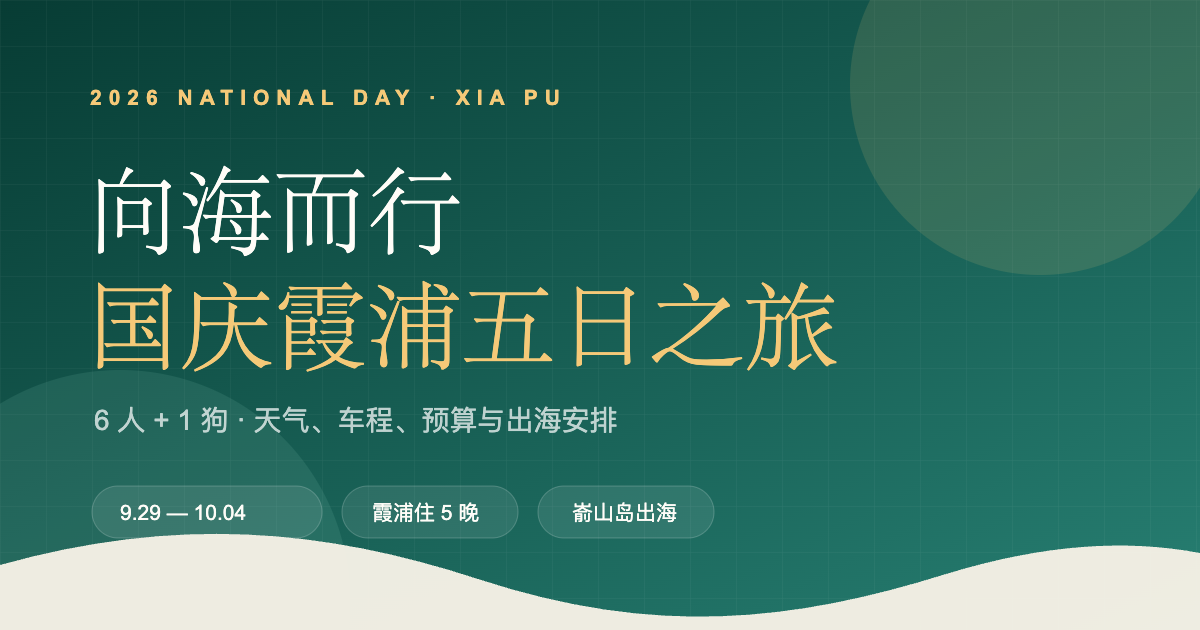
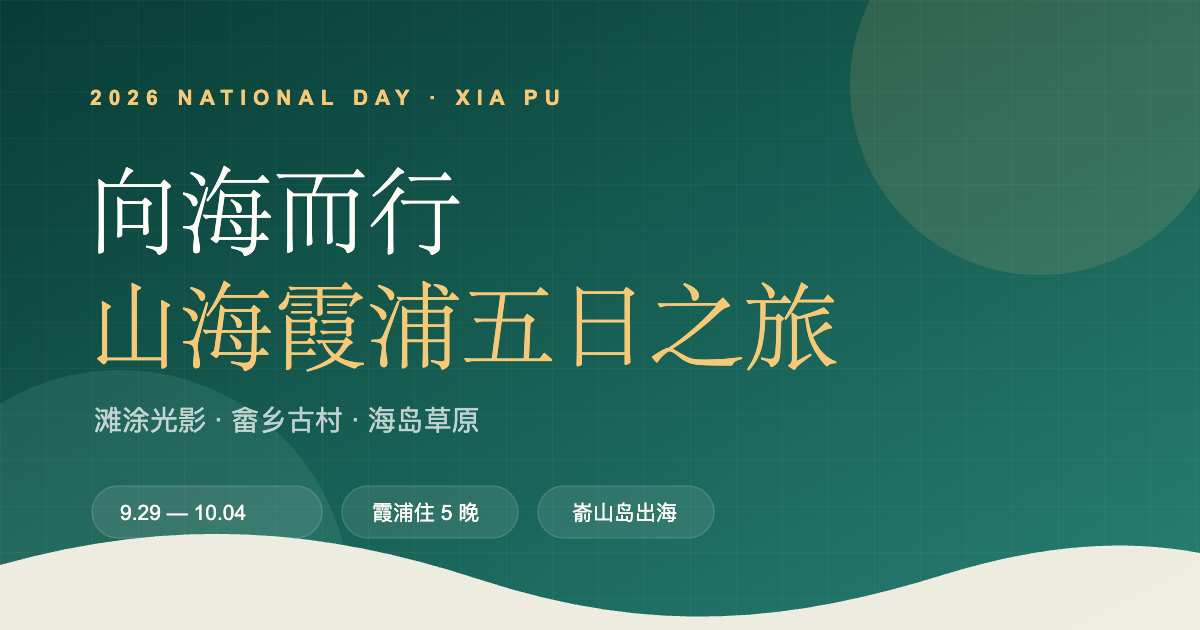
Polish itinerary as traveler-facing guide

Changed region(s): [[0.0617, 0.6333, 0.5242, 0.6937], [0.0617, 0.4524, 0.2467, 0.6032]]

diff --git a/index.html b/index.html
@@ -6,10 +6,10 @@
     <meta name="theme-color" content="#0d5548" />
     <meta name="apple-mobile-web-app-capable" content="yes" />
     <meta name="format-detection" content="telephone=no" />
-    <title>国庆霞浦之旅｜5 日游玩 + 10 月 4 日返程</title>
+    <title>山海霞浦｜2026 国庆五日之旅</title>
     <meta name="description" content="2026 国庆霞浦 5 日攻略：每日天气、逐段车程、费用、特色菜、嵛山岛船班与带狗说明。" />
     <meta property="og:type" content="website" />
-    <meta property="og:title" content="国庆霞浦之旅｜6 人 + 1 狗" />
+    <meta property="og:title" content="山海霞浦｜2026 国庆五日之旅" />
     <meta property="og:description" content="9.29—10.03 游玩，10.04 一早返程。含天气、车程、预算、餐厅特色菜和真实小红书攻略图。" />
     <meta property="og:image" content="https://youzxxrica-tech.github.io/xiapu-2026/og-cover.png" />
     <meta property="og:url" content="https://youzxxrica-tech.github.io/xiapu-2026/" />
@@ -23,7 +23,7 @@
       <div class="hero__inner">
         <p class="eyebrow">2026 NATIONAL DAY · XIA PU</p>
         <h1>国庆霞浦<br /><span>五日之旅</span></h1>
-        <p class="hero__lead">9 月 29 日入住，10 月 4 日一早退房返程。不是“六日大本营”，是霞浦住 5 晚。</p>
+        <p class="hero__lead">潮起潮落之间，滩涂、渔排与海岛，把东海写成一幅会呼吸的画。</p>
         <div class="hero__facts" aria-label="行程概况"><span>9.29—10.03 游玩</span><span>10.04 返程</span><span>6 人 + 1 狗</span><span>B 组 10.01 高铁到</span></div>
         <a class="hero__cta" href="#overview">看完整安排 <span aria-hidden="true">↓</span></a>
       </div>
@@ -32,39 +32,39 @@
 
     <main>
       <section class="quick" id="overview" aria-labelledby="quick-title">
-        <div class="section-heading"><p class="section-kicker">先说清楚</p><h2 id="quick-title">这版行程的四个硬口径</h2></div>
+        <div class="section-heading"><p class="section-kicker">JOURNEY HIGHLIGHTS</p><h2 id="quick-title">循着山海，读懂霞浦</h2></div>
         <div class="quick__grid quick__grid--four">
-          <article class="quick-card"><span class="quick-card__icon">🌦</span><h3>天气决定顺序</h3><p>当前是 9 月 22 日中期预报；海岛日若遇大风停航，D4 与 D5 直接互换。</p></article>
-          <article class="quick-card"><span class="quick-card__icon">🚄</span><h3>B 组 10 月 1 日到</h3><p>D3 专门留作接站与轻行程。车次没给，页面不编造到站时间。</p></article>
-          <article class="quick-card"><span class="quick-card__icon">🐕</span><h3>狗有上岛实测</h3><p>多篇小红书有带狗上船和乘景交车记录；带航空箱、嘴套、牵引绳，最终听现场安排。</p></article>
-          <article class="quick-card"><span class="quick-card__icon">🤿</span><h3>不安排浮潜</h3><p>未查到嵛山岛稳定、持证、含救援的一日游浮潜产品，外海礁石与风浪不适合自行下水。</p></article>
+          <article class="quick-card"><span class="quick-card__icon">🌅</span><h3>潮汐塑造的风景</h3><p>北岐与小皓的潮间带随海水舒展，紫菜竹竿、渔船和晨光共同构成霞浦最动人的线条。</p></article>
+          <article class="quick-card"><span class="quick-card__icon">🐟</span><h3>渔家餐桌</h3><p>从红膏蟹糯米饭、炒藤壶到海鲜面，一日三餐都连着霞浦人以海为田的生活。</p></article>
+          <article class="quick-card"><span class="quick-card__icon">🎶</span><h3>畲乡古韵</h3><p>半月里的龙溪宫、雷氏宗祠与传统民居，保留着闽东畲族村落的空间与生活记忆。</p></article>
+          <article class="quick-card"><span class="quick-card__icon">🌿</span><h3>海上草原</h3><p>乘船越过三沙海面，登上嵛山岛，在天湖、草坡与远海之间感受山海相连的开阔。</p></article>
         </div>
-        <div class="forecast-note"><strong>天气快照 · 更新于 2026-09-22</strong><span>中期预报会变，出发前 48 小时必须复核；海岛还要单独看风力、浪高和班船通知。</span></div>
+        <div class="forecast-note"><strong>天气参考 · 2026-09-22 更新</strong><span>逐日温度与天气已写入行程；出发前 48 小时复核预报，海岛日同时确认风力、浪高与班船动态。</span></div>
       </section>
 
       <section class="route-map-section" aria-labelledby="route-map-title-heading">
-        <div class="section-heading"><p class="section-kicker">THE ROUTE</p><h2 id="route-map-title-heading">霞浦 5 日 + 返程路线</h2></div>
+        <div class="section-heading"><p class="section-kicker">THE ROUTE</p><h2 id="route-map-title-heading">五日山海路线</h2></div>
         <div class="route-map-card">
           <div class="route-map-tabs" role="group" aria-label="选择要查看的路线"><button class="route-map-tab is-active" type="button" data-route="xiapu" aria-pressed="true">霞浦 5 日</button><button class="route-map-tab" type="button" data-route="1" aria-pressed="false">D1</button><button class="route-map-tab" type="button" data-route="2" aria-pressed="false">D2</button><button class="route-map-tab" type="button" data-route="3" aria-pressed="false">D3</button><button class="route-map-tab" type="button" data-route="4" aria-pressed="false">D4</button><button class="route-map-tab" type="button" data-route="5" aria-pressed="false">D5</button><button class="route-map-tab" type="button" data-route="home" aria-pressed="false">返程</button></div>
           <div id="route-map" role="img" aria-label="霞浦五日自驾和嵛山岛路线图"></div>
-          <div class="route-map-meta"><div><strong id="route-map-label">霞浦段 · D1—D5</strong><p id="route-map-copy">县城住 5 晚，北线、接站、嵛山岛、南线各自成线。</p></div><a id="route-map-link" href="#day-1">从 D1 开始看</a></div>
-          <p class="route-map-note">地图连线用于说明顺序，不替代实时导航；海上段为班船示意。重复经过的地点会显示“1/3/7”这类合并编号，不再漏掉第 3 站。</p>
+          <div class="route-map-meta"><div><strong id="route-map-label">霞浦段 · D1—D5</strong><p id="route-map-copy">以县城为驻点，串联北线滩涂、杨家溪、嵛山岛与南线畲乡。</p></div><a id="route-map-link" href="#day-1">从 D1 开始看</a></div>
+          <p class="route-map-note">图示为游览顺序，实际行车以当日导航和交通管制为准；三沙码头至嵛山岛为客船航线。</p>
         </div>
       </section>
 
       <nav class="day-nav" aria-label="按天跳转"><div class="day-nav__scroll"><a href="#day-1">D1</a><a href="#day-2">D2</a><a href="#day-3">D3</a><a href="#day-4">D4</a><a href="#day-5">D5</a><a href="#return-day">10/4 返程</a></div></nav>
 
       <section class="itinerary" aria-labelledby="itinerary-title">
-        <div class="section-heading section-heading--light"><p class="section-kicker">THE ITINERARY</p><h2 id="itinerary-title">天气、车程、钱和吃什么，都写明白</h2></div>
+        <div class="section-heading section-heading--light"><p class="section-kicker">THE ITINERARY</p><h2 id="itinerary-title">五日山海纪行</h2></div>
 
         <article class="day" id="day-1">
-          <div class="day__head"><div class="day__number"><small>DAY</small>01</div><div><p>09.29 · 周二 · A 组 4 人 + 狗</p><h3>杭州出发 · 抵达霞浦</h3></div></div>
+          <div class="day__head"><div class="day__number"><small>DAY</small>01</div><div><p>09.29 · 周二 · A 组 4 人 + 狗</p><h3>抵达霞浦 · 初见滩涂</h3></div></div>
           <div class="day-summary"><span class="weather">☀→☁ 25–31°C</span><span class="budget">预计 ¥790–1,070 / A 组</span><span>住第 1/5 晚</span></div>
-          <p class="summary-note">车辆燃油 + 路桥约 ¥550–750/车，晚餐 ¥60–80/人；不含酒店。国庆拥堵另留 1–2 小时。</p>
+          <p class="summary-note">当日费用参考：车辆燃油与路桥约 ¥550–750/车，晚餐 ¥60–80/人；酒店费用另计。国庆路况建议预留 1–2 小时机动时间。</p>
           <ol class="timeline">
             <li><time>07:00</time><div><strong>杭州出发</strong><span class="leg">约 478 km · 正常 6–7 小时</span><p>A 组 4 人 + 狗自驾。每 2 小时停一次服务区补水、放风。</p></div></li>
-            <li><time>14:30</time><div><strong>栖谷云著酒店入住</strong><span class="leg">到北岐约 7 km · 15–20 分钟</span><p>连续住 5 晚，10 月 4 日一早退房。若 16:30 前安顿好且不堵，再去北岐；否则直接休息。</p></div></li>
-            <li><time>17:00</time><div><strong>北岐滩涂 · 可选日落</strong><span class="leg">游玩 45–60 分钟 · 门票 ¥0</span><p>晴间多云时可看晚霞；抵达晚就取消，D2 还会来，不为打卡赶路。</p><div class="place-gallery" aria-label="北岐滩涂小红书实拍"><button class="photo-thumb" type="button" data-photo="./assets/photos/beiqi-xhs-1.jpg" data-caption="北岐日出与观景人 · 小红书作者 nihao" data-source="https://www.xiaohongshu.com/explore/6aae08b7000000002a02c483"><img src="./assets/photos/beiqi-xhs-1.jpg" alt="北岐滩涂日出小红书实拍" loading="lazy" /></button><button class="photo-thumb" type="button" data-photo="./assets/photos/beiqi-xhs-2.jpg" data-caption="北岐滩涂晨光 · 小红书作者 nihao" data-source="https://www.xiaohongshu.com/explore/6aae08b7000000002a02c483"><img src="./assets/photos/beiqi-xhs-2.jpg" alt="北岐滩涂晨光小红书实拍" loading="lazy" /></button></div></div></li>
+            <li><time>14:30</time><div><strong>栖谷云著酒店入住</strong><span class="leg">到北岐约 7 km · 15–20 分钟</span><p>办理入住并稍作休整。若 16:30 前完成安顿，可前往北岐迎接霞浦的第一场海上暮色。</p></div></li>
+            <li><time>17:00</time><div><strong>北岐滩涂 · 暮色漫步</strong><span class="leg">游玩 45–60 分钟 · 门票 ¥0</span><p>低潮后的水道映着天光，紫菜竹竿与归港渔船勾出霞浦典型的滩涂景观；若抵达较晚，留待次日清晨细看。</p><div class="place-gallery" aria-label="北岐滩涂小红书实拍"><button class="photo-thumb" type="button" data-photo="./assets/photos/beiqi-xhs-1.jpg" data-caption="北岐日出与观景人 · 小红书作者 nihao" data-source="https://www.xiaohongshu.com/explore/6aae08b7000000002a02c483"><img src="./assets/photos/beiqi-xhs-1.jpg" alt="北岐滩涂日出小红书实拍" loading="lazy" /></button><button class="photo-thumb" type="button" data-photo="./assets/photos/beiqi-xhs-2.jpg" data-caption="北岐滩涂晨光 · 小红书作者 nihao" data-source="https://www.xiaohongshu.com/explore/6aae08b7000000002a02c483"><img src="./assets/photos/beiqi-xhs-2.jpg" alt="北岐滩涂晨光小红书实拍" loading="lazy" /></button></div></div></li>
             <li class="food"><time>19:00</time><div><strong>福宁美食城 · 滩涂海鲜</strong><span class="leg">北岐→县城约 7–9 km · 20 分钟</span><p class="dish"><b>必点：</b>红膏蟹糯米饭、炒藤壶、蒜蓉蛏；6 人到齐后也可再来点椒盐皮皮虾。先问斤价和加工费。</p><p class="price">参考 ¥60–80/人</p><div class="place-gallery" aria-label="福宁美食城小红书菜品实拍"><button class="photo-thumb" type="button" data-photo="./assets/photos/funing-xhs-1.jpg" data-caption="红膏蟹糯米饭 · 福宁美食城小红书实拍" data-source="https://www.xiaohongshu.com/explore/69bb92b900000000220007d7"><img src="./assets/photos/funing-xhs-1.jpg" alt="福宁美食城红膏蟹糯米饭" loading="lazy" /></button><button class="photo-thumb" type="button" data-photo="./assets/photos/funing-xhs-2.jpg" data-caption="炒藤壶 · 福宁美食城小红书实拍" data-source="https://www.xiaohongshu.com/explore/69bb92b900000000220007d7"><img src="./assets/photos/funing-xhs-2.jpg" alt="福宁美食城炒藤壶" loading="lazy" /></button><button class="photo-thumb" type="button" data-photo="./assets/photos/funing-xhs-3.jpg" data-caption="蒜蓉蛏 · 福宁美食城小红书实拍" data-source="https://www.xiaohongshu.com/explore/69bb92b900000000220007d7"><img src="./assets/photos/funing-xhs-3.jpg" alt="福宁美食城蒜蓉蛏" loading="lazy" /></button></div></div></li>
           </ol>
         </article>
@@ -72,26 +72,26 @@
         <article class="day" id="day-2">
           <div class="day__head"><div class="day__number"><small>DAY</small>02</div><div><p>09.30 · 周三 · A 组 4 人 + 狗</p><h3>北岐日出 · 小皓 · 东壁</h3></div></div>
           <div class="day-summary"><span class="weather">☁ 阴 24–33°C</span><span class="budget">约 ¥110–155/人</span><span>A 组约 ¥450–650</span></div>
-          <p class="summary-note">阴天可能没有金色日出：4:50 起床看云量，云厚就 7:30 正常出发，不硬熬。停车约 ¥10–30/车。</p>
+          <p class="summary-note">日出约 05:50。低云较厚时改为 07:30 出发，以滩涂纹理和渔村晨景为主；停车约 ¥10–30/车。</p>
           <ol class="timeline">
-            <li><time>05:10</time><div><strong>北岐滩涂日出 · 看云量执行</strong><span class="leg">酒店→北岐 7 km · 15–20 分钟</span><p>日出约 05:50。阴天仍可看滩涂纹理，但云底很厚就取消早起。</p><div class="place-gallery" aria-label="北岐滩涂小红书实拍"><button class="photo-thumb" type="button" data-photo="./assets/photos/beiqi-xhs-1.jpg" data-caption="北岐日出机位实拍" data-source="https://www.xiaohongshu.com/explore/6aae08b7000000002a02c483"><img src="./assets/photos/beiqi-xhs-1.jpg" alt="北岐日出机位实拍" loading="lazy" /></button><button class="photo-thumb" type="button" data-photo="./assets/photos/beiqi-xhs-2.jpg" data-caption="北岐滩涂晨光实拍" data-source="https://www.xiaohongshu.com/explore/6aae08b7000000002a02c483"><img src="./assets/photos/beiqi-xhs-2.jpg" alt="北岐滩涂晨光实拍" loading="lazy" /></button></div></div></li>
+            <li><time>05:10</time><div><strong>北岐滩涂 · 海上晨光</strong><span class="leg">酒店→北岐 7 km · 15–20 分钟</span><p>日出约 05:50。晨潮退去后，滩涂水道、竹竿和渔排在天光中逐渐显出层次。</p><div class="place-gallery" aria-label="北岐滩涂小红书实拍"><button class="photo-thumb" type="button" data-photo="./assets/photos/beiqi-xhs-1.jpg" data-caption="北岐日出机位实拍" data-source="https://www.xiaohongshu.com/explore/6aae08b7000000002a02c483"><img src="./assets/photos/beiqi-xhs-1.jpg" alt="北岐日出机位实拍" loading="lazy" /></button><button class="photo-thumb" type="button" data-photo="./assets/photos/beiqi-xhs-2.jpg" data-caption="北岐滩涂晨光实拍" data-source="https://www.xiaohongshu.com/explore/6aae08b7000000002a02c483"><img src="./assets/photos/beiqi-xhs-2.jpg" alt="北岐滩涂晨光实拍" loading="lazy" /></button></div></div></li>
             <li class="food"><time>07:40</time><div><strong>阿贵包店</strong><span class="leg">北岐→县城约 20 分钟</span><p class="dish"><b>特色：</b>糊汤、肉包、蒸饺。早餐快吃快走，国庆营业时间前一晚确认。</p><p class="price">参考 ¥15–25/人</p><div class="place-gallery" aria-label="阿贵包店小红书实拍"><button class="photo-thumb" type="button" data-photo="./assets/photos/agui.jpg" data-caption="阿贵包店小红书笔记实拍" data-source="https://www.xiaohongshu.com/explore/69acdc99000000002203b24b"><img src="./assets/photos/agui.jpg" alt="阿贵包店小红书笔记实拍" loading="lazy" /></button></div></div></li>
             <li><time>10:00</time><div><strong>小皓海滩</strong><span class="leg">县城→小皓约 27 km · 40–50 分钟</span><p>走滩涂、看 S 形水道，牵绳并避开养殖作业区；停留约 1.5 小时。</p><div class="place-gallery" aria-label="小皓海滩小红书实拍"><button class="photo-thumb" type="button" data-photo="./assets/photos/xiaohao-xhs-1.jpg" data-caption="小皓海滩低潮全景 · 小红书作者米奥日记" data-source="https://www.xiaohongshu.com/explore/68e270df0000000003034a5c"><img src="./assets/photos/xiaohao-xhs-1.jpg" alt="小皓海滩低潮全景" loading="lazy" /></button><button class="photo-thumb" type="button" data-photo="./assets/photos/xiaohao-xhs-2.jpg" data-caption="小皓海滩礁石与滩涂 · 小红书作者米奥日记" data-source="https://www.xiaohongshu.com/explore/68e270df0000000003034a5c"><img src="./assets/photos/xiaohao-xhs-2.jpg" alt="小皓海滩礁石和滩涂" loading="lazy" /></button></div></div></li>
-            <li class="food"><time>12:00</time><div><strong>东壁附近简餐</strong><span class="leg">小皓→东壁约 9 km · 20 分钟</span><p>不追网红店，选明码标价的海鲜面或炒粉，给傍晚留时间。</p><p class="price">参考 ¥30–50/人</p></div></li>
+            <li class="food"><time>12:00</time><div><strong>东壁附近午餐</strong><span class="leg">小皓→东壁约 9 km · 20 分钟</span><p>选择海鲜面或炒粉等霞浦家常口味，午后留足时间漫步海边村落。</p><p class="price">参考 ¥30–50/人</p></div></li>
             <li><time>15:30</time><div><strong>东壁村慢走到日落</strong><span class="leg">游玩 2–2.5 小时 · 门票 ¥0</span><p>先走海边坡道和通海小巷，17:47 前到虞公亭桥附近。阴天没有晚霞就提前返程。</p><div class="place-gallery" aria-label="东壁村小红书实拍"><button class="photo-thumb" type="button" data-photo="./assets/photos/dongbi-xhs-1.jpg" data-caption="东壁通海坡道 · 小红书作者西梨PappleZ" data-source="https://www.xiaohongshu.com/explore/6a48a19a0000000008001a42"><img src="./assets/photos/dongbi-xhs-1.jpg" alt="东壁村通海坡道" loading="lazy" /></button><button class="photo-thumb" type="button" data-photo="./assets/photos/dongbi-xhs-2.jpg" data-caption="东壁通海小巷 · 小红书作者西梨PappleZ" data-source="https://www.xiaohongshu.com/explore/6a48a19a0000000008001a42"><img src="./assets/photos/dongbi-xhs-2.jpg" alt="东壁村通海小巷" loading="lazy" /></button><button class="photo-thumb" type="button" data-photo="./assets/photos/dongbi-xhs-3.jpg" data-caption="东壁虞公亭桥附近海滩 · 小红书作者西梨PappleZ" data-source="https://www.xiaohongshu.com/explore/6a48a19a0000000008001a42"><img src="./assets/photos/dongbi-xhs-3.jpg" alt="东壁村虞公亭桥附近海滩" loading="lazy" /></button></div></div></li>
             <li><time>18:10</time><div><strong>回县城</strong><span class="leg">东壁→酒店约 31 km · 50–60 分钟</span><p>晚餐自由选择，预算按 ¥50–80/人留。</p></div></li>
           </ol>
         </article>
 
         <article class="day" id="day-3">
-          <div class="day__head"><div class="day__number"><small>DAY</small>03</div><div><p>10.01 · 周四 · B 组 2 人高铁到</p><h3>接站 · 新美味园 · 杨家溪</h3></div></div>
+          <div class="day__head"><div class="day__number"><small>DAY</small>03</div><div><p>10.01 · 周四 · B 组 2 人高铁到</p><h3>霞浦会合 · 榕溪慢游</h3></div></div>
           <div class="day-summary"><span class="weather weather--rain">🌦 小雨 23–33°C</span><span class="budget">约 ¥80–130/人</span><span>中午起 6 人会合</span></div>
-          <p class="summary-note">唯一没法凭空确定的是 B 组到站时刻。以下按“13:00 前到站”排；如果晚于 13:00，杨家溪取消，改为县城休息。</p>
+          <p class="summary-note">B 组于 10 月 1 日乘高铁抵达。13:00 前到站可前往杨家溪；13:00 后到站则安排县城休整与自由漫步。</p>
           <ol class="timeline">
-            <li><time>上午</time><div><strong>A 组睡到自然醒</strong><p>前一天早起后不再塞景点；确认 B 组车次、雨量和接站车位。</p></div></li>
-            <li><time>待补</time><div><strong>霞浦站接 B 组 2 人</strong><span class="leg">酒店→霞浦站约 5 km · 12–15 分钟</span><p>请把高铁车次或到站时间发来后，把这里替换成准确时间。</p></div></li>
-            <li class="food"><time>12:00*</time><div><strong>新美味园总店 · 6 人正式会合</strong><span class="leg">霞浦站→餐厅约 5–7 km · 15–20 分钟</span><p class="dish"><b>特色：</b>本地糯米饭、海蛎鱼、笋干小笼包、酸辣什锦汤。量大，先点 4–5 道再加。</p><p class="price">参考 ¥60–90/人 · “*”随高铁到站顺延</p><div class="place-gallery" aria-label="新美味园小红书菜品实拍"><button class="photo-thumb" type="button" data-photo="./assets/photos/xinmeiwei-xhs-1.jpg" data-caption="新美味园酸辣什锦汤 · 小红书实拍" data-source="https://www.xiaohongshu.com/explore/6a4798870000000008033aa9"><img src="./assets/photos/xinmeiwei-xhs-1.jpg" alt="新美味园酸辣什锦汤" loading="lazy" /></button><button class="photo-thumb" type="button" data-photo="./assets/photos/xinmeiwei-xhs-2.jpg" data-caption="新美味园笋干小笼包与海蛎鱼 · 小红书实拍" data-source="https://www.xiaohongshu.com/explore/6a4798870000000008033aa9"><img src="./assets/photos/xinmeiwei-xhs-2.jpg" alt="新美味园笋干小笼包和海蛎鱼" loading="lazy" /></button><button class="photo-thumb" type="button" data-photo="./assets/photos/xinmeiwei-xhs-3.jpg" data-caption="新美味园多人点菜组合 · 小红书实拍" data-source="https://www.xiaohongshu.com/explore/6a4798870000000008033aa9"><img src="./assets/photos/xinmeiwei-xhs-3.jpg" alt="新美味园多人点菜组合" loading="lazy" /></button></div></div></li>
-            <li><time>14:30*</time><div><strong>杨家溪 · 仅小雨且到站不晚时去</strong><span class="leg">县城→杨家溪约 36 km · 45–55 分钟</span><p>走古榕和浅溪，停留 1.5–2 小时。持续降雨、雷电或 B 组晚到，直接取消；湿滑路面不给狗上竹筏。</p><p class="price">门票/竹筏以现场当日项目为准，不把未核实项目写进预算</p><div class="place-gallery" aria-label="杨家溪小红书实拍"><button class="photo-thumb" type="button" data-photo="./assets/photos/yangjiaxi-xhs-1.jpg" data-caption="杨家溪浅溪与游人 · 小红书作者米奥日记" data-source="https://www.xiaohongshu.com/explore/68e270df0000000003034a5c"><img src="./assets/photos/yangjiaxi-xhs-1.jpg" alt="杨家溪浅溪小红书实拍" loading="lazy" /></button></div></div></li>
+            <li><time>上午</time><div><strong>县城晨间休整</strong><p>A 组享用早餐、整理装备，关注列车到站信息与当日雨势。</p></div></li>
+            <li><time>车次时间</time><div><strong>霞浦站迎接 B 组</strong><span class="leg">酒店→霞浦站约 5 km · 12–15 分钟</span><p>车辆提前 20 分钟从酒店出发，到站后直接前往县城午餐。</p></div></li>
+            <li class="food"><time>到站后</time><div><strong>新美味园总店 · 团队会合午餐</strong><span class="leg">霞浦站→餐厅约 5–7 km · 15–20 分钟</span><p class="dish"><b>特色：</b>本地糯米饭、海蛎鱼、笋干小笼包、酸辣什锦汤。量大，先点 4–5 道再加。</p><p class="price">参考 ¥60–90/人 · 用餐时间随列车到站顺延</p><div class="place-gallery" aria-label="新美味园小红书菜品实拍"><button class="photo-thumb" type="button" data-photo="./assets/photos/xinmeiwei-xhs-1.jpg" data-caption="新美味园酸辣什锦汤 · 小红书实拍" data-source="https://www.xiaohongshu.com/explore/6a4798870000000008033aa9"><img src="./assets/photos/xinmeiwei-xhs-1.jpg" alt="新美味园酸辣什锦汤" loading="lazy" /></button><button class="photo-thumb" type="button" data-photo="./assets/photos/xinmeiwei-xhs-2.jpg" data-caption="新美味园笋干小笼包与海蛎鱼 · 小红书实拍" data-source="https://www.xiaohongshu.com/explore/6a4798870000000008033aa9"><img src="./assets/photos/xinmeiwei-xhs-2.jpg" alt="新美味园笋干小笼包和海蛎鱼" loading="lazy" /></button><button class="photo-thumb" type="button" data-photo="./assets/photos/xinmeiwei-xhs-3.jpg" data-caption="新美味园多人点菜组合 · 小红书实拍" data-source="https://www.xiaohongshu.com/explore/6a4798870000000008033aa9"><img src="./assets/photos/xinmeiwei-xhs-3.jpg" alt="新美味园多人点菜组合" loading="lazy" /></button></div></div></li>
+            <li><time>14:30</time><div><strong>杨家溪 · 古榕与浅溪</strong><span class="leg">县城→杨家溪约 36 km · 45–55 分钟</span><p>沿古榕群和溪岸慢行，感受闽东山水与村落相依的景致。持续降雨或雷电时改为县城自由活动，湿滑天气不乘竹筏。</p><p class="price">门票及竹筏费用以景区当日公示为准</p><div class="place-gallery" aria-label="杨家溪小红书实拍"><button class="photo-thumb" type="button" data-photo="./assets/photos/yangjiaxi-xhs-1.jpg" data-caption="杨家溪浅溪与游人 · 小红书作者米奥日记" data-source="https://www.xiaohongshu.com/explore/68e270df0000000003034a5c"><img src="./assets/photos/yangjiaxi-xhs-1.jpg" alt="杨家溪浅溪小红书实拍" loading="lazy" /></button></div></div></li>
             <li><time>17:30</time><div><strong>回酒店</strong><span class="leg">杨家溪→酒店约 36 km · 45–55 分钟</span><p>为第二天出海留体力，晚餐在县城就近解决。</p></div></li>
           </ol>
         </article>
@@ -99,12 +99,12 @@
         <article class="day day--island" id="day-4">
           <div class="day__head"><div class="day__number"><small>DAY</small>04</div><div><p>10.02 · 周五 · 6 人 + 1 狗</p><h3>三沙乘船<br />嵛山岛一日</h3></div></div>
           <div class="day-summary"><span class="weather">☁ 多云→阴 25–32°C</span><span class="budget">约 ¥210–235/人</span><span>6 人约 ¥1,270–1,430</span></div>
-          <p class="summary-note">预算按往返船约 ¥100、天湖 + 景交约 ¥76、午餐 ¥30–50、停车 ¥10–20/车估算。2026 国庆正式船班尚未发布，下面 09:30/约 14:00 只是排程基准，9 月 30 日必须电话确认。</p>
-          <div class="decision-grid"><article><strong>🐕 狗能不能上岛？</strong><p>有多篇小红书近期实测：小狗上船、进景交车和走草场都成功；有笔记称小狗免船票。但这不是景区书面承诺。带航空箱/背包、嘴套、牵引绳、拾便袋，最终服从船员和景区。</p></article><article class="decision-card--no"><strong>🤿 能不能浮潜？</strong><p><b>本行程明确不安排。</b>没有查到稳定的持证运营方、固定下水区和救援保障；外海风浪、礁石和班船时间都不适合 DIY。天湖更不是游泳区。</p></article></div>
+          <p class="summary-note">费用参考：往返船约 ¥100、天湖与景交约 ¥76、午餐 ¥30–50、停车 ¥10–20/车。建议选择 09:30 左右去程、14:00 左右返程，9 月 30 日电话确认国庆班次。</p>
+          <div class="decision-grid"><article><strong>🐕 携宠登岛</strong><p>近期游客记录显示，小型犬可随主人乘船、搭乘景交并进入草场。请备好航空箱或背包、嘴套、牵引绳与拾便袋，登船和乘车以现场工作人员安排为准。</p></article><article class="decision-card--no"><strong>🌊 水上活动</strong><p>本日安排天湖与草场游览，不设置浮潜。岛周边属于外海环境，礁石、风浪与潮流变化较大，仅参加具备资质、装备和救援保障的正规水上项目。</p></article></div>
           <ol class="timeline">
-            <li><time>07:00</time><div><strong>酒店早餐 / 自带简餐</strong><p>不要绕去三沙找网红早餐，船班日以不误船为第一优先。</p><p class="price">参考 ¥15–25/人</p></div></li>
+            <li><time>07:00</time><div><strong>酒店早餐 · 准备登船</strong><p>在县城完成早餐并备好饮水、晕船药与宠物用品，按船班节奏直接前往码头。</p><p class="price">参考 ¥15–25/人</p></div></li>
             <li><time>07:40</time><div><strong>开车去三沙古镇码头</strong><span class="leg">酒店→码头约 38 km · 45–55 分钟</span><p>按 09:30 航班基准，至少提前 50 分钟停车、取票、询问宠物登船安排。</p></div></li>
-            <li><time>09:30*</time><div><strong>三沙码头 → 嵛山岛</strong><span class="leg">班船约 20–30 分钟</span><p>“*”为计划锚点，不是已售票承诺。大风、大浪、停航就立刻与 D5 互换，不在码头死等。</p></div></li>
+            <li><time>09:30</time><div><strong>三沙码头 → 嵛山岛</strong><span class="leg">班船约 20–30 分钟</span><p>优先选择 09:30 左右班船。遇大风、海况不佳或停航通知，启用 D5 半月里与高罗海滩线路。</p></div></li>
             <li><time>10:10</time><div><strong>嵛山岛天湖草场</strong><span class="leg">岛上码头→天湖景交约 30–40 分钟</span><p>天湖栈道与草场慢走；人多时小狗装包或抱行，备饮水、防晒和防虫。</p><div class="place-gallery" aria-label="嵛山岛带狗小红书实拍"><button class="photo-thumb" type="button" data-photo="./assets/photos/yushan-xhs-1.jpg" data-caption="嵛山岛天湖、海岸与带狗游客 · 小红书作者柚子味泡菜" data-source="https://www.xiaohongshu.com/explore/6a3bbe950000000016026670"><img src="./assets/photos/yushan-xhs-1.jpg" alt="嵛山岛天湖和带狗游客全景" loading="lazy" /></button><button class="photo-thumb" type="button" data-photo="./assets/photos/yushan-xhs-2.jpg" data-caption="游客抱狗在嵛山岛天湖边 · 小红书作者鸡麻的小狗日记" data-source="https://www.xiaohongshu.com/explore/6aa11938000000002a02638b"><img src="./assets/photos/yushan-xhs-2.jpg" alt="游客抱狗在嵛山岛天湖边" loading="lazy" /></button><button class="photo-thumb" type="button" data-photo="./assets/photos/yushan-xhs-3.jpg" data-caption="嵛山岛天湖草场 · 小红书作者鸡麻的小狗日记" data-source="https://www.xiaohongshu.com/explore/6aa11938000000002a02638b"><img src="./assets/photos/yushan-xhs-3.jpg" alt="嵛山岛天湖草场" loading="lazy" /></button></div></div></li>
             <li class="food"><time>12:20</time><div><strong>岛上简餐</strong><p class="dish"><b>岛上常见：</b>海鲜面、海鲜炒粉。选择出餐快的店，13:10 前离店去码头。</p><p class="price">参考 ¥30–50/人</p><div class="place-gallery" aria-label="嵛山岛简餐小红书实拍"><button class="photo-thumb" type="button" data-photo="./assets/photos/yushan-food-1.jpg" data-caption="嵛山岛海鲜面 · 小红书作者柚子味泡菜" data-source="https://www.xiaohongshu.com/explore/6a3bbe950000000016026670"><img src="./assets/photos/yushan-food-1.jpg" alt="嵛山岛海鲜面" loading="lazy" /></button><button class="photo-thumb" type="button" data-photo="./assets/photos/yushan-food-2.jpg" data-caption="嵛山岛海鲜炒粉 · 小红书作者柚子味泡菜" data-source="https://www.xiaohongshu.com/explore/6a3bbe950000000016026670"><img src="./assets/photos/yushan-food-2.jpg" alt="嵛山岛海鲜炒粉" loading="lazy" /></button></div></div></li>
             <li><time>约14:00</time><div><strong>返航三沙 → 回县城</strong><span class="leg">船 20–30 分钟 + 开车 45–55 分钟</span><p>国庆实际返航时间以票面和现场通知为准。</p></div></li>
@@ -115,32 +115,32 @@
         <article class="day" id="day-5">
           <div class="day__head"><div class="day__number"><small>DAY</small>05</div><div><p>10.03 · 周六 · 霞浦最后一整天</p><h3>半月里 · 高罗海滩</h3></div></div>
           <div class="day-summary"><span class="weather">☁ 阴 23–32°C</span><span class="budget">约 ¥140–190/人</span><span>6 人约 ¥850–1,150</span></div>
-          <p class="summary-note">预算含半月里约 ¥39、博物馆约 ¥10（按需）、两餐和停车；酒店仍不计。若 D4 停航，这一天与 D4 整体互换。</p>
+          <p class="summary-note">费用参考：半月里约 ¥39、博物馆约 ¥10（按需）、两餐及停车约 ¥90–140/人。若嵛山岛因海况停航，本日与 D4 对调。</p>
           <ol class="timeline">
-            <li><time>08:20</time><div><strong>酒店出发</strong><span class="leg">县城→半月里约 42 km · 45–55 分钟</span><p>不再追赶 07:57 干潮，最后一天以古村和海滩松弛收尾。</p></div></li>
+            <li><time>08:20</time><div><strong>沿南线前往半月里</strong><span class="leg">县城→半月里约 42 km · 45–55 分钟</span><p>从海岸转入畲乡村落，以古村人文开启霞浦最后一个完整游览日。</p></div></li>
             <li><time>09:15</time><div><strong>半月里畲族古村</strong><span class="leg">停留 1.5–2 小时 · 参考门票 ¥39</span><p>龙溪宫、雷氏宗祠和古民居慢走；博物馆等室内空间先问是否允许宠物。</p><div class="place-gallery" aria-label="半月里小红书实拍"><button class="photo-thumb" type="button" data-photo="./assets/photos/banyueli-xhs-1.jpg" data-caption="半月里畲族古村巷道 · 小红书作者 Hisoka" data-source="https://www.xiaohongshu.com/explore/69e37648000000002102c2b2"><img src="./assets/photos/banyueli-xhs-1.jpg" alt="半月里畲族古村巷道" loading="lazy" /></button><button class="photo-thumb" type="button" data-photo="./assets/photos/banyueli-xhs-2.jpg" data-caption="半月里传统民居 · 小红书作者 Hisoka" data-source="https://www.xiaohongshu.com/explore/69e37648000000002102c2b2"><img src="./assets/photos/banyueli-xhs-2.jpg" alt="半月里传统民居" loading="lazy" /></button></div></div></li>
-            <li class="food"><time>11:40</time><div><strong>南线明码标价简餐</strong><span class="leg">半月里→高罗约 28 km · 35–45 分钟</span><p>选择炒粉、海鲜面或家常菜，先问价格再点，不为未经核实的网红店绕路。</p><p class="price">参考 ¥40–60/人</p></div></li>
-            <li><time>13:30</time><div><strong>高罗海滩</strong><span class="leg">停留约 2 小时 · 沙滩免费</span><p>开阔浅滩适合牵绳散步；不是无人监管的宠物乐园，远离水上项目和车行区，备淡水冲爪。</p><div class="place-gallery" aria-label="高罗海滩小红书实拍"><button class="photo-thumb" type="button" data-photo="./assets/photos/gaoluo-xhs-1.jpg" data-caption="高罗海滩低潮与渔船 · 小红书作者摆烂摄手JUN" data-source="https://www.xiaohongshu.com/explore/6a5e13b7000000001f01fe64"><img src="./assets/photos/gaoluo-xhs-1.jpg" alt="高罗海滩低潮和渔船" loading="lazy" /></button></div></div></li>
-            <li><time>16:00</time><div><strong>回县城整理行李</strong><span class="leg">高罗→酒店约 37 km · 50–60 分钟</span><p>晚餐预算 ¥60–80/人；干货购物放在县城完成，不占第二天早晨。</p></div></li>
+            <li class="food"><time>11:40</time><div><strong>南线乡味简餐</strong><span class="leg">半月里→高罗约 28 km · 35–45 分钟</span><p>沿途选择海鲜面、炒粉或时令家常菜，用餐后继续前往高罗海岸。</p><p class="price">参考 ¥40–60/人</p></div></li>
+            <li><time>13:30</time><div><strong>高罗海滩</strong><span class="leg">停留约 2 小时 · 沙滩免费</span><p>开阔浅滩适合牵绳散步与看海，活动时避开水上项目和车行区域，并备淡水为狗冲洗爪部。</p><div class="place-gallery" aria-label="高罗海滩小红书实拍"><button class="photo-thumb" type="button" data-photo="./assets/photos/gaoluo-xhs-1.jpg" data-caption="高罗海滩低潮与渔船 · 小红书作者摆烂摄手JUN" data-source="https://www.xiaohongshu.com/explore/6a5e13b7000000001f01fe64"><img src="./assets/photos/gaoluo-xhs-1.jpg" alt="高罗海滩低潮和渔船" loading="lazy" /></button></div></div></li>
+            <li><time>16:00</time><div><strong>回县城整理行李</strong><span class="leg">高罗→酒店约 37 km · 50–60 分钟</span><p>返回县城享用晚餐，并采购紫菜、海带、虾干等易携带的霞浦海产伴手礼。</p></div></li>
           </ol>
         </article>
 
         <article class="day day--return" id="return-day">
           <div class="day__head"><div class="day__number"><small>RETURN</small>04</div><div><p>10.04 · 周日 · 一早退房</p><h3>霞浦行程结束 · 返程</h3></div></div>
           <div class="day-summary"><span class="weather">☁ 阴 22–28°C</span><span class="budget">车辆约 ¥500–700/车</span><span>住宿共 5 晚</span></div>
-          <p class="summary-note">返程目的地按原计划导航；燃油和路桥为估算，不含购物。阴天行车注意能见度，国庆返程预留堵车。</p>
-          <ol class="timeline"><li><time>07:00</time><div><strong>早餐、装车、退房</strong><p>昨晚已完成大部分购物，早晨不再安排市场和景点。</p></div></li><li><time>08:00</time><div><strong>离开霞浦</strong><span class="leg">每 2 小时进入服务区休息</span><p>这一天是返程日，不再算作“霞浦第 6 天”。</p></div></li></ol>
+          <p class="summary-note">车辆燃油与路桥参考 ¥500–700/车。国庆返程车流集中，建议提前查看高速路况并预留机动时间。</p>
+          <ol class="timeline"><li><time>07:00</time><div><strong>早餐、装车、退房</strong><p>核对证件、行李与宠物用品，完成酒店退房。</p></div></li><li><time>08:00</time><div><strong>启程返杭</strong><span class="leg">约 478 km · 正常 6–7 小时</span><p>途中每 2 小时进入服务区休息，为驾驶员和狗补水、放松。</p></div></li></ol>
         </article>
       </section>
 
-      <section class="food-guide" aria-labelledby="food-title"><div class="section-heading"><p class="section-kicker">EAT &amp; BUDGET</p><h2 id="food-title">点菜和花钱速查</h2></div><div class="guide-grid"><article><span>早餐 ¥15–25</span><h3>阿贵包店</h3><p>糊汤 · 肉包 · 蒸饺</p></article><article><span>海鲜 ¥60–80</span><h3>福宁美食城</h3><p>红膏蟹糯米饭 · 炒藤壶 · 蒜蓉蛏</p></article><article><span>本地菜 ¥60–90</span><h3>新美味园</h3><p>本地糯米饭 · 海蛎鱼 · 笋干小笼包 · 酸辣什锦汤</p></article><article><span>岛上午餐 ¥30–50</span><h3>嵛山岛简餐</h3><p>海鲜面 · 海鲜炒粉 · 以快出餐为先</p></article><article><span>海岛固定项约 ¥176</span><h3>船 + 天湖景交</h3><p>往返船约 ¥100 · 天湖与景交约 ¥76</p></article><article><span>不含</span><h3>另行结算</h3><p>酒店 · B 组高铁 · 购物 · 临时娱乐项目</p></article></div></section>
+      <section class="food-guide" aria-labelledby="food-title"><div class="section-heading"><p class="section-kicker">EAT &amp; BUDGET</p><h2 id="food-title">霞浦风味与预算参考</h2></div><div class="guide-grid"><article><span>早餐 ¥15–25</span><h3>阿贵包店</h3><p>糊汤 · 肉包 · 蒸饺</p></article><article><span>海鲜 ¥60–80</span><h3>福宁美食城</h3><p>红膏蟹糯米饭 · 炒藤壶 · 蒜蓉蛏</p></article><article><span>本地菜 ¥60–90</span><h3>新美味园</h3><p>本地糯米饭 · 海蛎鱼 · 笋干小笼包 · 酸辣什锦汤</p></article><article><span>岛上午餐 ¥30–50</span><h3>嵛山岛简餐</h3><p>海鲜面 · 海鲜炒粉 · 以快出餐为先</p></article><article><span>海岛固定项约 ¥176</span><h3>船 + 天湖景交</h3><p>往返船约 ¥100 · 天湖与景交约 ¥76</p></article><article><span>不含</span><h3>另行结算</h3><p>酒店 · B 组高铁 · 购物 · 临时娱乐项目</p></article></div></section>
 
-      <section class="checks" aria-labelledby="checks-title"><div class="section-heading section-heading--light"><p class="section-kicker">48 HOURS BEFORE</p><h2 id="checks-title">真正需要复核的 6 件事</h2></div><ul class="checklist"><li><span>01</span>B 组高铁车次和 10 月 1 日准确到站时间</li><li><span>02</span>9 月 30 日电话确认嵛山岛国庆船班、余票和狗的登船要求</li><li><span>03</span>出发前 48 小时刷新逐日天气；海岛单看风力、浪高和停航通知</li><li><span>04</span>大风停航时，D4 嵛山岛与 D5 半月里/高罗整体互换</li><li><span>05</span>给狗带航空箱或背包、嘴套、牵引绳、饮水和拾便袋</li><li><span>06</span>所有海鲜先确认单价、计价单位和加工费，再下单</li></ul></section>
+      <section class="checks" aria-labelledby="checks-title"><div class="section-heading section-heading--light"><p class="section-kicker">48 HOURS BEFORE</p><h2 id="checks-title">行前确认清单</h2></div><ul class="checklist"><li><span>01</span>B 组高铁车次和 10 月 1 日准确到站时间</li><li><span>02</span>9 月 30 日电话确认嵛山岛国庆船班、余票和狗的登船要求</li><li><span>03</span>出发前 48 小时刷新逐日天气；海岛单看风力、浪高和停航通知</li><li><span>04</span>大风停航时，D4 嵛山岛与 D5 半月里/高罗整体互换</li><li><span>05</span>给狗带航空箱或背包、嘴套、牵引绳、饮水和拾便袋</li><li><span>06</span>所有海鲜先确认单价、计价单位和加工费，再下单</li></ul></section>
 
-      <section class="sources" aria-labelledby="sources-title"><details open><summary id="sources-title">来源与结论依据 <span>＋</span></summary><div class="sources__body"><p>景点与菜品照片均取自下列小红书笔记；交通与天气结论另看官方或公开页面。小红书实测能证明“有人成功带狗”，但不等于景区永久书面规则。</p><p class="sources__subtitle">天气、船班与费用</p><a href="https://m.tianqi.com/mip/xiapu/15/" rel="noreferrer">霞浦 15 日天气 · 本页 9/29—10/4 快照来源</a><a href="https://www.fdxww.com/common/pictureArticle.html?id=7419569381979459584" rel="noreferrer">福鼎新闻网 · 嵛山岛 2026 冬季航班与票价</a><a href="https://www.fdxww.com/common/pictureArticle.html?id=111201" rel="noreferrer">福鼎新闻网 · 嵛山岛夏季航班与联系电话</a><p class="sources__subtitle">带狗上岛与嵛山岛</p><a href="https://www.xiaohongshu.com/explore/693824b50000000019027857" rel="noreferrer">携宠出行｜福鼎 3 天 2 晚自由行攻略</a><a href="https://www.xiaohongshu.com/explore/6a3bbe950000000016026670" rel="noreferrer">和小狗的上海—福建自驾游｜大嵛山岛</a><a href="https://www.xiaohongshu.com/explore/6aa11938000000002a02638b" rel="noreferrer">嵛山岛一日往返｜带狗上岛全攻略</a><p class="sources__subtitle">景点与餐厅实拍</p><a href="https://www.xiaohongshu.com/explore/6aae08b7000000002a02c483" rel="noreferrer">北岐滩涂日出攻略</a><a href="https://www.xiaohongshu.com/explore/68e270df0000000003034a5c" rel="noreferrer">小皓海滩与杨家溪实拍</a><a href="https://www.xiaohongshu.com/explore/6a48a19a0000000008001a42" rel="noreferrer">东壁村 18 个摄影机位</a><a href="https://www.xiaohongshu.com/explore/69e37648000000002102c2b2" rel="noreferrer">半月里 300 年畲族古村</a><a href="https://www.xiaohongshu.com/explore/6a5e13b7000000001f01fe64" rel="noreferrer">高罗海滩实拍</a><a href="https://www.xiaohongshu.com/explore/69bb92b900000000220007d7" rel="noreferrer">福宁美食城菜品实拍</a><a href="https://www.xiaohongshu.com/explore/6a4e33fa0000000020038ca0" rel="noreferrer">本地司机推荐的福宁美食城</a><a href="https://www.xiaohongshu.com/explore/6a4798870000000008033aa9" rel="noreferrer">新美味园总店菜品实拍</a><a href="https://www.xiaohongshu.com/explore/69acdc99000000002203b24b" rel="noreferrer">阿贵包店相关笔记</a></div></details></section>
+      <section class="sources" aria-labelledby="sources-title"><details><summary id="sources-title">资料来源 <span>＋</span></summary><div class="sources__body"><p>天气、船班与费用参考公开信息；景点与菜品图片链接至对应的小红书旅行笔记，便于出发前复核。</p><p class="sources__subtitle">天气、船班与费用</p><a href="https://m.tianqi.com/mip/xiapu/15/" rel="noreferrer">霞浦 15 日天气 · 本页 9/29—10/4 快照来源</a><a href="https://www.fdxww.com/common/pictureArticle.html?id=7419569381979459584" rel="noreferrer">福鼎新闻网 · 嵛山岛 2026 冬季航班与票价</a><a href="https://www.fdxww.com/common/pictureArticle.html?id=111201" rel="noreferrer">福鼎新闻网 · 嵛山岛夏季航班与联系电话</a><p class="sources__subtitle">带狗上岛与嵛山岛</p><a href="https://www.xiaohongshu.com/explore/693824b50000000019027857" rel="noreferrer">携宠出行｜福鼎 3 天 2 晚自由行攻略</a><a href="https://www.xiaohongshu.com/explore/6a3bbe950000000016026670" rel="noreferrer">和小狗的上海—福建自驾游｜大嵛山岛</a><a href="https://www.xiaohongshu.com/explore/6aa11938000000002a02638b" rel="noreferrer">嵛山岛一日往返｜带狗上岛全攻略</a><p class="sources__subtitle">景点与餐厅实拍</p><a href="https://www.xiaohongshu.com/explore/6aae08b7000000002a02c483" rel="noreferrer">北岐滩涂日出攻略</a><a href="https://www.xiaohongshu.com/explore/68e270df0000000003034a5c" rel="noreferrer">小皓海滩与杨家溪实拍</a><a href="https://www.xiaohongshu.com/explore/6a48a19a0000000008001a42" rel="noreferrer">东壁村 18 个摄影机位</a><a href="https://www.xiaohongshu.com/explore/69e37648000000002102c2b2" rel="noreferrer">半月里 300 年畲族古村</a><a href="https://www.xiaohongshu.com/explore/6a5e13b7000000001f01fe64" rel="noreferrer">高罗海滩实拍</a><a href="https://www.xiaohongshu.com/explore/69bb92b900000000220007d7" rel="noreferrer">福宁美食城菜品实拍</a><a href="https://www.xiaohongshu.com/explore/6a4e33fa0000000020038ca0" rel="noreferrer">本地司机推荐的福宁美食城</a><a href="https://www.xiaohongshu.com/explore/6a4798870000000008033aa9" rel="noreferrer">新美味园总店菜品实拍</a><a href="https://www.xiaohongshu.com/explore/69acdc99000000002203b24b" rel="noreferrer">阿贵包店相关笔记</a></div></details></section>
     </main>
 
-    <footer><p>国庆霞浦之旅 · 2026</p><small>攻略重排于 2026-09-22 · 当前天气为中期预报，船班与宠物准入须在出发前复核</small></footer>
+    <footer><p>山海霞浦 · 2026 国庆</p><small>9 月 29 日抵达 · 10 月 4 日返程 · 天气、船班与景区开放信息请于出发前复核</small></footer>
     <dialog class="lightbox" id="lightbox" aria-label="图片预览"><button class="lightbox__close" type="button" aria-label="关闭图片预览">×</button><figure><img id="lightbox-image" alt="" /><figcaption><span id="lightbox-caption"></span><a id="lightbox-source" href="#" rel="noreferrer">查看小红书原笔记</a></figcaption></figure></dialog>
     <script src="./vendor/leaflet/leaflet.js"></script><script src="./app.js?v=4"></script>
   </body>

diff --git a/app.js b/app.js
@@ -95,7 +95,7 @@ if (routeMapElement && window.L) {
     if (routeKey === 'xiapu') {
       ;['1', '2', '3', '4', '5'].forEach((dayKey) => { bounds = bounds.concat(addRoute(dayKey, false, markerSet)) })
       labelElement.textContent = '霞浦段 · D1—D5'
-      copyElement.textContent = '县城住 5 晚，北线、接站、嵛山岛、南线各自成线。'
+      copyElement.textContent = '以县城为驻点，串联北线滩涂、杨家溪、嵛山岛与南线畲乡。'
       routeLink.href = '#day-1'
       routeLink.textContent = '从 D1 开始看'
     } else {
